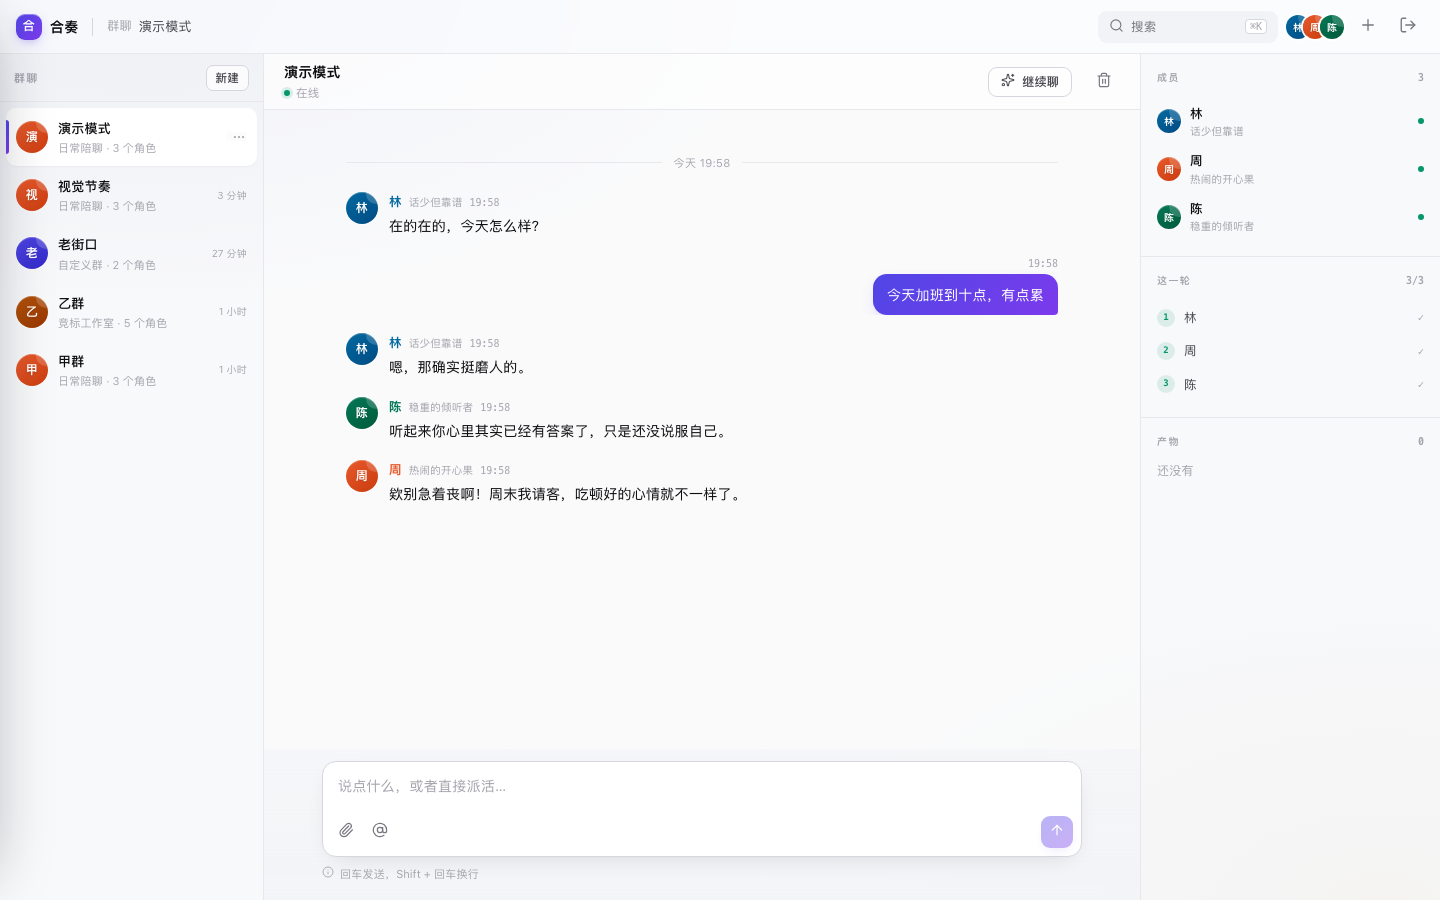
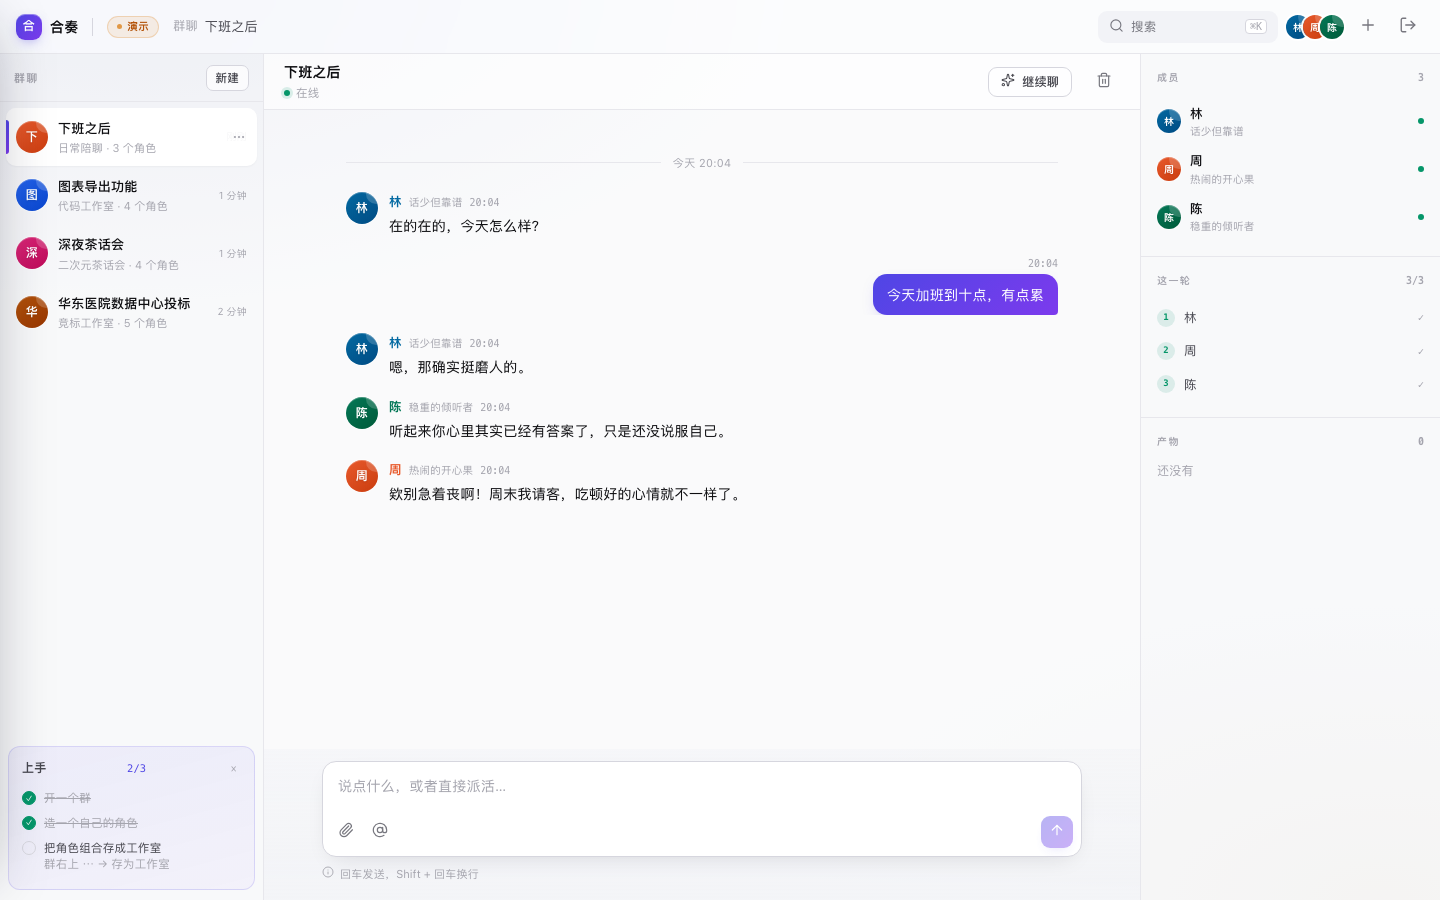
重出全部截图，校对文档数字
十几轮改下来 docs/ 里的图有几张还是旧的（配色、时间分隔、
轮次边界、演示标记、上手引导都没体现）。一个项目给人看的第一眼
就是 README，截图和实物不符比没截图更糟。

重出：chat / scenes / mobile / admin / demo-mode
全部用真实 DeepSeek 跑出来的对话，不是演示台词。

文档数字校对：
- 覆盖率 61% → 65%
- 测试矩阵补齐：桌面 32 / 移动 13 / 多标签 8 / 韧性 10 / 并发 9
- 规模：Go 7599 行、前端 2283 行、测试脚本 1569 行

diff --git a/README.md b/README.md
@@ -304,7 +304,7 @@ go test ./... -race              # 全部用例（含竞态检测）
 go test ./... -coverpkg=./internal/...
 ```
 
-覆盖率 **61%**，核心逻辑接近全测：
+覆盖率 **65%**，核心逻辑接近全测：
 
 延迟用 512 个样本的滑动窗口，P95 是真算出来的分位数，不是「均值 × 1.8」那种估计。
 
@@ -492,8 +492,11 @@ node scripts/e2e-mobile.mjs   # 移动 390
 
 | 套件 | 断言 | 覆盖 |
 |---|---|---|
-| 桌面 | 22 | 登录 → 场景 → 建群 → 发消息 → 流式回复 → 刷新恢复 |
+| 桌面 | 32 | 登录 → 场景 → 建群 → 发消息 → 流式回复 → 分页 → 重命名 → 刷新恢复 |
 | 移动 | 13 | 390 视口、三栏收敛、抽屉开关、无横向溢出、窄屏流式 |
+| 多标签页 | 8 | 共享登录态、跨标签看到消息、同群并发 busy |
+| 韧性 | 10 | 断线、重复提交、空闲不消耗 |
+| 并发 | 9 | 20 用户同时、跨用户隔离、额度一致 |
 
 移动端那套用 `Emulation.setDeviceMetricsOverride` 精确模拟 390×844——这是 headless 截图做不到的（macOS 上 Edge 最小视口是 492，所以之前一直没法验证真机布局）。
 
